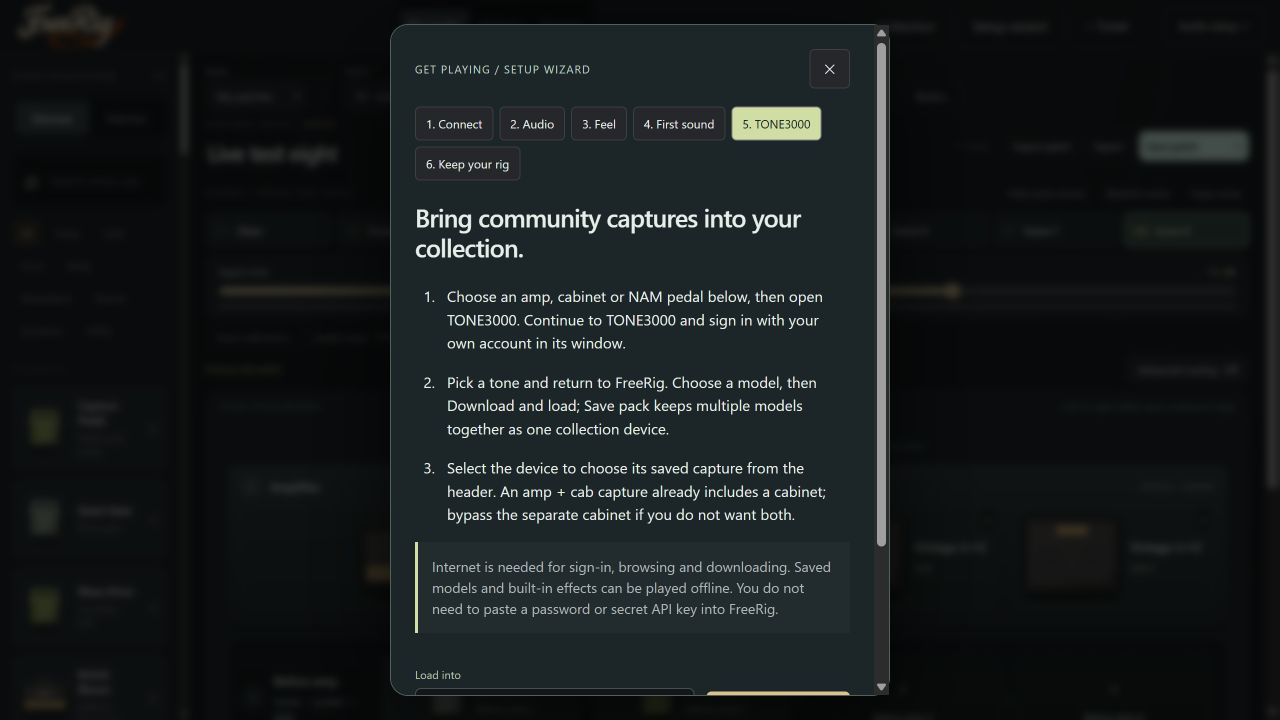
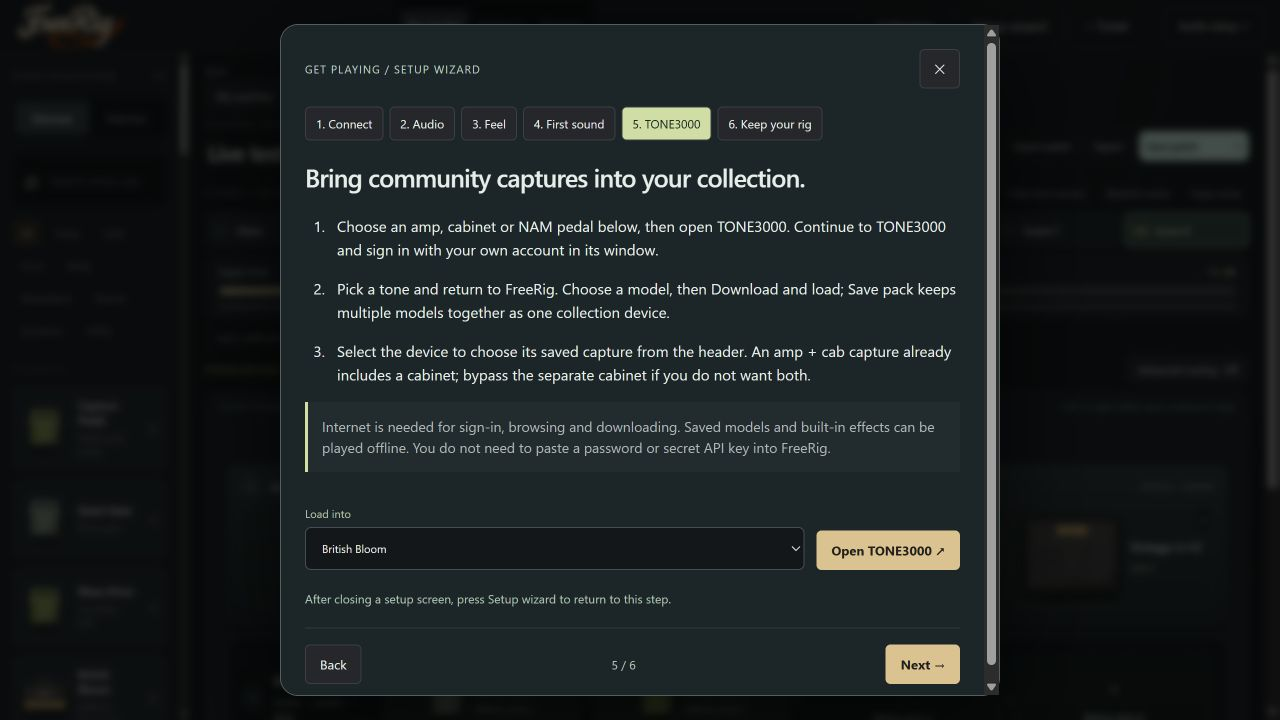
fix: give setup guidance enough reading width

Changed region(s): [[0.2188, 0.0306, 0.7812, 0.9778], [0.5625, 0.9472, 0.6562, 0.9778]]

diff --git a/prototype/index.html b/prototype/index.html
@@ -1,4 +1,4 @@
-<!doctype html>
+<!doctype html>
 <html lang="en">
 <head><meta charset="utf-8"><meta name="viewport" content="width=device-width,initial-scale=1"><title>FreeRig — Rig Studio</title><link rel="stylesheet" href="style.css"><link rel="stylesheet" href="routing.css"><link rel="stylesheet" href="hardware-controls.css"><link rel="stylesheet" href="patch-ui.css"><link rel="stylesheet" href="tone3000.css"><link rel="stylesheet" href="device-shelf.css"><link rel="stylesheet" href="effects-ui.css"><link rel="stylesheet" href="studio-skin.css"><link rel="stylesheet" href="workspace.css"><link rel="stylesheet" href="react-ui.css"></head>
 <body>
@@ -12,5 +12,3 @@
 <footer class="statusbar"><span><i class="tiny-dot amber"></i> AUDIO ENGINE OFFLINE</span><span>ASIO: not connected</span><span id="tempo-status">112 BPM</span><span class="version">FREERIG / DESKTOP ALPHA 18</span></footer></main></div>
 <dialog id="modal"><div class="modal-heading"><span class="eyebrow" id="modal-eyebrow">SETUP</span><button id="close-modal" aria-label="Close dialog">✕</button></div><div id="modal-content"></div></dialog><div id="toast" role="status" aria-live="polite"></div><script src="effects-catalogue.js"></script><script src="rig-model.js"></script><script src="patch-model.js"></script><script src="slot-board.js"></script><script src="gear-art.js"></script><script src="gear-looks.js"></script><script src="routing-ui.js"></script><script src="pedalboard-ui.js"></script><script src="patch-ui.js"></script><script src="gear-drag.js"></script><script src="hardware-controls.js"></script><script src="desktop-bridge.js"></script><script src="device-shelf.js"></script><script src="tone3000.js"></script><script src="effects-ui.js"></script><script src="tuner.js"></script><script src="rig-actions.js"></script><script src="react-ui.js"></script><script src="app.js"></script><script src="banks.js"></script><script src="performance-ui.js"></script><script src="calibration-ui.js"></script>
 </body></html>
-
-

diff --git a/prototype/desktop-bridge.js b/prototype/desktop-bridge.js
@@ -1,4 +1,4 @@
-window.NativeDesktop=(()=>{
+window.NativeDesktop=(()=>{
  const host=window.chrome?.webview;let drivers=[],outputDevices=[],running=false,timer,activeAudioChoice=null;const send=value=>host?.postMessage(value);
  function sync(patch,immediate=false){if(!host)return;clearTimeout(timer);const push=()=>send({type:'sync',patch:{...patch,calibrationDbU:window.CalibrationUI?.reference(running&&activeAudioChoice?activeAudioChoice:audioChoice)??null}});if(immediate)push();else timer=setTimeout(push,90);}
  let masterDb=-12;try{const saved=localStorage.getItem('guitar-suite-master-db');if(saved!==null&&Number.isFinite(Number(saved)))masterDb=Math.max(-30,Math.min(12,Number(saved)));}catch{}
@@ -47,4 +47,3 @@ window.NativeDesktop=(()=>{
  function face(d,b,v){let html=HardwareControls.face(d,window.EffectTools?EffectTools.faceState(d,v):v);if(host&&!b.assetId)html=html.replace('NAM A2 / CAPTURE PLAYER','BUILT-IN / AMPLITRON').replace('TRIM & EQ CONTROLS SURROUND THE CAPTURE','AMP INPUT / TONE / OUTPUT').replace('CABINET IR / OUTPUT SHAPING','FILTERED CABINET / OUTPUT SHAPING');return window.DeviceShelf?DeviceShelf.skin(b,html):html;}
  return {sync,setup,installed,controls,face,boot,send,audioChoice:()=>({...((running&&activeAudioChoice)||audioChoice)}),exportPatch:value=>send({type:'exportPatch',value})};
 })();
-

diff --git a/prototype/react-ui.css b/prototype/react-ui.css
@@ -33,3 +33,4 @@ body,button,input,select,textarea{font-family:'Segoe UI',Arial,sans-serif}
 /* Keep the capture label and selector on the same baseline as header actions. */
 #editor .editor-actions>.compat-controls{display:contents}#editor .header-model{flex-direction:row;align-items:center;flex:1 1 240px;width:280px;max-width:100%;min-width:0;gap:8px;white-space:nowrap}#editor .header-model select{flex:1 1 0;width:0;min-width:0;max-width:none;height:34px;margin:0}#editor .editor-actions button{min-height:34px;white-space:nowrap}#editor .editor-top .title strong{overflow-wrap:anywhere}#editor .editor-actions{flex:0 1 650px}
 @media(max-width:950px){#editor .editor-actions{flex:1 1 100%;justify-content:flex-start}#editor .header-model{width:auto;flex:1 1 200px;max-width:100%}.top{gap:8px}.top #setup-wizard{padding:8px}}
+.setup-wizard{max-width:calc(100vw - 40px)}

diff --git a/ui/src/interface.css b/ui/src/interface.css
@@ -33,3 +33,4 @@ body,button,input,select,textarea{font-family:'Segoe UI',Arial,sans-serif}
 /* Keep the capture label and selector on the same baseline as header actions. */
 #editor .editor-actions>.compat-controls{display:contents}#editor .header-model{flex-direction:row;align-items:center;flex:1 1 240px;width:280px;max-width:100%;min-width:0;gap:8px;white-space:nowrap}#editor .header-model select{flex:1 1 0;width:0;min-width:0;max-width:none;height:34px;margin:0}#editor .editor-actions button{min-height:34px;white-space:nowrap}#editor .editor-top .title strong{overflow-wrap:anywhere}#editor .editor-actions{flex:0 1 650px}
 @media(max-width:950px){#editor .editor-actions{flex:1 1 100%;justify-content:flex-start}#editor .header-model{width:auto;flex:1 1 200px;max-width:100%}.top{gap:8px}.top #setup-wizard{padding:8px}}
+.setup-wizard{max-width:calc(100vw - 40px)}

diff --git a/ui/src/main.tsx b/ui/src/main.tsx
@@ -1,4 +1,4 @@
-import {SetupWizard} from './SetupWizard';
+import {SetupWizard} from './SetupWizard';
 import {createRoot, type Root} from 'react-dom/client';
 import {flushSync} from 'react-dom';
 import {Board} from './Board';
@@ -15,4 +15,3 @@ window.FreeRigReact={
  editor(props:EditorProps|null){if(!editorRoot){editor.replaceChildren();editorRoot=createRoot(editor);}flushSync(()=>editorRoot!.render(props?<Editor key={props.block.id} {...props}/>:null));},
  connect(actions){const host=document.createElement('div');host.id='device-menu-root';document.body.append(host);createRoot(host).render(<><ContextMenu actions={actions}/><SetupWizard actions={actions}/></>);}
 };
-

diff --git a/native/Program.cs b/native/Program.cs
@@ -1,4 +1,4 @@
-using System;
+using System;
 using System.IO;
 using System.Linq;
 using System.Text;
@@ -77,4 +77,3 @@ static class Program {
  }
 }
 }
-
